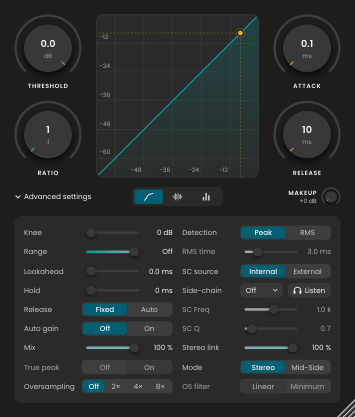
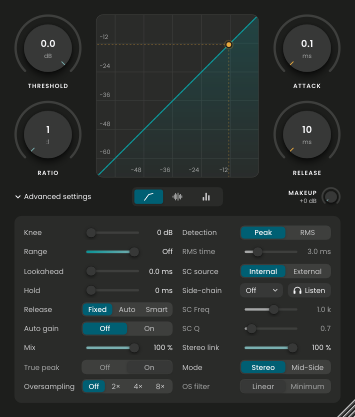
Release Smart : maintien automatique calé sur la période du signal (grave sans distorsion en release rapide), tests et fiche
Claude-Session: https://claude.ai/code/session_01ABYYgU46LdJDcLUx1Gese8

Changed region(s): [[0.2479, 0.717, 0.3718, 0.7794], [0.6197, 0.0624, 0.7127, 0.1247], [0.4028, 0.717, 0.4648, 0.7482]]

diff --git a/Source/CompressorCore.h b/Source/CompressorCore.h
@@ -90,6 +90,7 @@ struct CompParams
     bool   midSide    = false;   // détection et gain sur Mid / Side
     double hold       = 0;       // s
     bool   autoRel    = false;   // release automatique (deux constantes de temps)
+    bool   smartRel   = false;   // 3.0.0, avec autoRel : maintien automatique calé sur la période du signal (grave sans distorsion)
     double rmsWin     = 0.003;   // s
     int    os         = 0;       // suréchantillonnage : 0 = Off, 1 = ×2, 2 = ×4, 3 = ×8
     // 3.0.0
@@ -128,30 +129,47 @@ struct GainStage
 {
     double g = 0, gs = 0, up = 0;
     int hc = 0;
+    // Release « Smart » (3.0.0) : maintien automatique. On mesure l'intervalle entre deux débuts d'attaque successifs
+    // (so : échantillons depuis le dernier début, ia : attaque en cours). S'il est court (moins de adapt, soit 25 ms),
+    // le son est tenu et périodique : le maintien vaut 1,25 fois cette période, la réduction ne redescend plus entre
+    // deux crêtes et le gain ne module plus la forme d'onde (distorsion du grave). Sur une frappe isolée l'intervalle
+    // est long : aucun maintien, le release part aussitôt. adapt = 0 : calcul strictement inchangé.
+    int so = 1 << 28, per = 0;
+    bool ia = false;
+    inline int holdFor (int hold, int adapt)
+    {
+        if (adapt <= 0) return hold;
+        if (! ia) { per = so < adapt ? so : 0; so = 0; ia = true; }
+        return std::max (hold, std::min (adapt, per + per / 4));
+    }
+    inline void tick (int adapt, bool attacking) { if (adapt > 0) { if (! attacking) ia = false; if (so < (1 << 28)) ++so; } }
 
     // Release automatique = deux détecteurs en parallèle (double RC) : le rapide (release ÷ 3) et un lent
     // (constante release × 3, en charge comme en décharge) qui ne se remplit que si la compression dure ;
     // on garde le plus fort des deux.
     // compresseur : attaque exponentielle (formule d'Audio Lab)
-    inline double comp (double gr, double aA, double aR, double aS, int hold, double wAuto)
+    inline double comp (double gr, double aA, double aR, double aS, int hold, double wAuto, int adapt = 0)
     {
-        if (gr > g) { g = aA * g + (1 - aA) * gr; hc = hold; }
+        const bool at = gr > g;
+        if (at) { g = aA * g + (1 - aA) * gr; hc = holdFor (hold, adapt); }
         else if (hc > 0) --hc;
         else g = aR * g + (1 - aR) * gr;
+        tick (adapt, at);
         gs = aS * gs + (1 - aS) * gr;
         return wAuto > 0 ? g + wAuto * std::max (0.0, gs - g) : g;
     }
     // Version suréchantillonnée : même calcul, mais le passage attaque ↔ release est daté ENTRE deux échantillons
     // (la cible est supposée linéaire sur l'intervalle) et le pas est réduit à la fraction restante. Sans cela
     // l'instant de bascule est arrondi à l'échantillon, ce qui module le gain (repliement de la détection crête).
-    inline double compAA (double gr, double aA, double aR, double aS, int hold, double wAuto)
+    inline double compAA (double gr, double aA, double aR, double aS, int hold, double wAuto, int adapt = 0)
     {
+        const bool at = gr > g;
         // intégration par trapèzes : la cible vaut en moyenne (up + gr) / 2 sur l'intervalle
         if (gr > g)
         {
             if (up < g) g += (1 - aA) * 0.5 * (gr - g) * (gr - g) / (gr - up);   // croisement en montant : fraction (gr − g) / (gr − up)
             else        g += (1 - aA) * (0.5 * (up + gr) - g);
-            hc = hold;
+            hc = holdFor (hold, adapt);
         }
         else if (hc > 0) --hc;
         else if (up > g)
@@ -160,6 +178,7 @@ struct GainStage
             g += (1 - aA) * t * 0.5 * (up - g) + (1 - aR) * (1 - t) * 0.5 * (gr - g);
         }
         else g += (1 - aR) * (0.5 * (up + gr) - g);
+        tick (adapt, at);
         up = gr;
         gs = aS * gs + (1 - aS) * gr;
         return wAuto > 0 ? g + wAuto * std::max (0.0, gs - g) : g;
@@ -584,6 +603,7 @@ private:
         aS = std::exp (-1.0 / (std::max (0.001, p.rel * 3) * fh));       // × 3 après une compression prolongée
         rmsCoef = std::exp (-1.0 / (std::max (0.0005, p.rmsWin) * fh));
         holdH = std::max (0, jsRound (p.hold * fh));
+        adaptH = (p.autoRel && p.smartRel) ? jsRound (0.025 * fh) : 0;
         // suréchantillonné : le gain passe par deux pôles à gSmHz (inaudible, retire l'extrême aigu du gain qui se replierait)
         gSm = (factor > 1 && gSmHz > 0) ? 1 - std::exp (-2 * kPi * gSmHz / fh) : 0.0;
         // rythme de base (limiteur)
@@ -721,7 +741,7 @@ private:
         const double grLink = ! useR ? grP : useP ? grP + wR * (gc (toDb (lvlR), thr, s, kn) - grP) : gc (toDb (lvlR), thr, s, kn);
         if (lk >= 1)
         {
-            const double G = aa ? b.st[0].compAA (grLink, aA, aRel, aS, holdH, wA) : b.st[0].comp (grLink, aA, aRel, aS, holdH, wA);
+            const double G = aa ? b.st[0].compAA (grLink, aA, aRel, aS, holdH, wA, adaptH) : b.st[0].comp (grLink, aA, aRel, aS, holdH, wA, adaptH);
             b.st[1] = b.st[0];
             double lin = std::pow (10.0, -G / 20) * mk;
             if (gSm > 0) { b.sm[0][0] += gSm * (lin - b.sm[0][0]); b.sm[0][1] += gSm * (b.sm[0][0] - b.sm[0][1]); lin = b.sm[0][1]; b.sm[1][0] = b.sm[0][0]; b.sm[1][1] = lin; }
@@ -736,7 +756,7 @@ private:
             const double oP = ! useP ? 0.0 : aa ? grA[c] : gc (toDb (std::abs (c == 0 ? d0 : d1)), thr, s, kn);
             const double oR = useR ? gc (toDb (std::sqrt (b.acc[c])), thr, s, kn) : 0.0;
             const double grv = lk * grLink + (1 - lk) * (! useR ? oP : useP ? oP + wR * (oR - oP) : oR);
-            const double G = aa ? b.st[c].compAA (grv, aA, aRel, aS, holdH, wA) : b.st[c].comp (grv, aA, aRel, aS, holdH, wA);
+            const double G = aa ? b.st[c].compAA (grv, aA, aRel, aS, holdH, wA, adaptH) : b.st[c].comp (grv, aA, aRel, aS, holdH, wA, adaptH);
             double lin = std::pow (10.0, -G / 20) * mk;
             if (gSm > 0) { b.sm[c][0] += gSm * (lin - b.sm[c][0]); b.sm[c][1] += gSm * (b.sm[c][0] - b.sm[c][1]); lin = b.sm[c][1]; }
             b.gh[c][(size_t) w] = lin;
@@ -1006,6 +1026,7 @@ private:
     // coefficients
     double aA = 0, aR = 0, aRfast = 0, aS = 0, rmsCoef = 0, gSm = 0;
     AdaaGR adaa;
+    int adaptH = 0;
     bool adaaDirty = false;
 public:
     double gSmHz = 0;   // adoucissement du gain suréchantillonné : essayé, sans effet mesurable sur le repliement, laissé à 0

diff --git a/tests/quality_test.cpp b/tests/quality_test.cpp
@@ -627,6 +627,7 @@ int main()
             { "RMS time 50 → 5 ms", [] (CompParams& q) { q.rmsWin = 0.005; }, [] (CompParams& q) { q.rmsWin = 0.05; }, false },
             { "Hold 0 → 100 ms", [] (CompParams& q) { q.hold = 0.1; }, [] (CompParams& q) { q.hold = 0; }, false },
             { "Release Fixed → Auto", [] (CompParams& q) { q.autoRel = true; }, [] (CompParams& q) { q.autoRel = false; }, false },
+            { "Release Fixed → Smart", [] (CompParams& q) { q.autoRel = true; q.smartRel = true; }, [] (CompParams& q) { q.autoRel = false; q.smartRel = false; }, false },
             { "Range 60 → 3 dB", [] (CompParams& q) { q.range = 3; }, [] (CompParams& q) { q.range = 60; }, false },
             { "Auto gain Off → On", [] (CompParams& q) { q.autoGain = true; }, [] (CompParams& q) { q.autoGain = false; }, false },
             { "Side-chain Off → HPF 500 Hz", [] (CompParams& q) { q.scType = Biquad::HPF; q.scF = 500; }, [] (CompParams& q) { q.scType = Biquad::Off; }, false },
@@ -727,21 +728,36 @@ int main()
                 check (o.lat == 0 && num / den < 1e-10 && ov.minPhaseDelay() < 8, m);
             }
         }
-        {   // grave : distorsion d'un sinus 50 Hz compressé de 12 dB, release rapide (mesure d'information et garde-fou)
-            auto x = sine (fs, 50, -6, 2.0);
-            auto thd = [&] (CompParams p) {
+        {   // grave en release rapide : distorsion d'un sinus compressé de 12 dB, détection Peak, release 30 ms
+            auto thd = [&] (double f0, CompParams p) {
+                auto x = sine (fs, f0, -6, 2.0);
                 auto o = run (fs, x, x, p);
-                // fondamental par corrélation, le reste = distorsion
-                const size_t a0 = 48000, n = 48000; double c = 0, s = 0, e = 0;
-                for (size_t i = 0; i < n; ++i) { const double w = 2 * PI * 50 * (double) i / fs; c += o.L[a0 + i] * std::cos (w); s += o.L[a0 + i] * std::sin (w); e += (double) o.L[a0 + i] * o.L[a0 + i]; }
+                const size_t a0 = 48000, n = 48000; double c = 0, s = 0, e = 0;   // fondamental par corrélation, le reste = distorsion
+                for (size_t i = 0; i < n; ++i) { const double w = 2 * PI * f0 * (double) i / fs; c += o.L[a0 + i] * std::cos (w); s += o.L[a0 + i] * std::sin (w); e += (double) o.L[a0 + i] * o.L[a0 + i]; }
                 const double f2 = 2 * (c * c + s * s) / n;
                 return 100 * std::sqrt (std::max (0.0, e - f2) / f2); };
             CompParams p; p.thr = -24; p.ratio = 3; p.atk = 0.005; p.rel = 0.03;
-            const double tFix = thd (p);
-            CompParams q = p; q.hold = 0.02; const double tHold = thd (q);
-            CompParams r = p; r.rms = true; r.rmsWin = 0.05; const double tRms = thd (r);
-            std::snprintf (m, sizeof m, "sinus 50 Hz, release 30 ms : distorsion %.2f %% (Peak), %.2f %% avec Hold 20 ms, %.3f %% en RMS 50 ms", tFix, tHold, tRms);
-            check (tHold < tFix && tRms < 0.5, m);
+            CompParams au = p; au.autoRel = true;
+            CompParams sm = au; sm.smartRel = true;
+            CompParams s8 = sm; s8.os = 3;
+            for (double f0 : { 40.0, 50.0, 80.0, 150.0 })
+            {
+                const double tF = thd (f0, p), tA = thd (f0, au), tS = thd (f0, sm), tS8 = thd (f0, s8);
+                std::snprintf (m, sizeof m, "sinus %.0f Hz, release 30 ms : distorsion %.2f %% (Fixed), %.2f %% (Auto), %.3f %% (Smart), %.3f %% (Smart, 8×)", f0, tF, tA, tS, tS8);
+                check (tS < 0.05 && tS8 < 0.05 && tS < tF / 20, m);
+            }
+        }
+        {   // Smart ne retarde pas le release d'une frappe isolée : même retour au gain unité qu'en Auto
+            std::vector<float> x ((size_t) (fs * 1.0), 0.0f);
+            for (int i = 0; i < 2400; ++i) x[(size_t) (4800 + i)] = (float) (0.9 * std::sin (2 * PI * 3000.0 * i / fs) * std::exp (-i / 600.0));   // frappe de 50 ms
+            for (size_t i = 0; i < x.size(); ++i) x[i] += (float) (0.01 * std::sin (2 * PI * 700.0 * (double) i / fs));                        // son témoin très faible
+            CompParams au; au.thr = -30; au.ratio = 6; au.atk = 0.001; au.rel = 0.1; au.autoRel = true;
+            CompParams sm = au; sm.smartRel = true;
+            auto a = run (fs, x, x, au), b = run (fs, x, x, sm);
+            double d = 0, ref = 0;
+            for (size_t i = 7200; i < x.size(); ++i) { d = std::max (d, (double) std::abs (a.L[i] - b.L[i])); ref = std::max (ref, (double) std::abs (a.L[i])); }
+            std::snprintf (m, sizeof m, "frappe isolée : écart Smart / Auto pendant le release %.1f dB sous le signal", -20 * std::log10 (d / ref + 1e-12));
+            check (d / ref < 0.05, m);
         }
     }
 

diff --git a/Source/Params.h b/Source/Params.h
@@ -26,7 +26,7 @@ inline constexpr const char* scSource  = "scSource";     // Internal / External
 inline constexpr const char* link      = "stereoLink";   // 0 … 100 %
 inline constexpr const char* stMode    = "stereoMode";   // Stereo / Mid-Side
 inline constexpr const char* hold      = "hold";         // 0 … 500 ms
-inline constexpr const char* autoRel   = "autoRelease";  // Off / On
+inline constexpr const char* autoRel   = "autoRelease";  // Off / On / Smart (Smart ajouté en 3.0.0, en fin de liste)
 inline constexpr const char* rmsWin    = "rmsWindow";    // 1 … 300 ms
 inline constexpr const char* oversamp  = "oversampling"; // Off / 2× / 4× / 8× (8× ajouté en 3.0.0, en fin de liste)
 // 3.0.0
@@ -110,7 +110,7 @@ inline juce::AudioProcessorValueTreeState::ParameterLayout createLayout()
     fl (link, "Stereo Link", linRange (0, 100, 1), 100, "%", [] (float v, int) { return String (roundToInt (v)) + " %"; }, 2);
     l.add (std::make_unique<AudioParameterChoice> (ParameterID { stMode, 2 }, "Stereo Mode", StringArray { "Stereo", "Mid-Side" }, 0));
     fl (hold, "Hold", powRange (0, 500, 1, 2), 0, "ms", [] (float v, int) { return String (roundToInt (v)) + " ms"; }, 2);
-    l.add (std::make_unique<AudioParameterChoice> (ParameterID { autoRel, 2 }, "Auto Release", StringArray { "Off", "On" }, 0));
+    l.add (std::make_unique<AudioParameterChoice> (ParameterID { autoRel, 2 }, "Auto Release", StringArray { "Off", "On", "Smart" }, 0));
     fl (rmsWin, "RMS Window", logRange (1, 300, 0.1f), 3, "ms", [] (float v, int) { return fmtMs (v); }, 2);
     // suréchantillonnage : change la latence, donc non automatisable (réglé une fois, hors lecture de préférence)
     l.add (std::make_unique<AudioParameterChoice> (ParameterID { oversamp, 2 }, "Oversampling", StringArray { "Off", "2" + times, "4" + times, "8" + times }, 0,

diff --git a/Source/PluginEditor.cpp b/Source/PluginEditor.cpp
@@ -16,7 +16,7 @@ static const char* helpLook = "The detector sees the signal in advance: the atta
 // 2.0.0
 static const char* helpRms  = "RMS window: how long the detector averages the level (RMS detection only). Short = closer to the peaks, long = follows the loudness. Default 3 ms.";
 static const char* helpHold = "Hold: keeps the gain reduction in place for this time before the release starts. Avoids distortion on bass notes and a fluttering gain.";
-static const char* helpRelA = "Auto release adapts to the music: after a short peak the gain comes back 3 times faster than the Release setting, after a long compression 3 times slower. Less pumping, more punch.";
+static const char* helpRelA = "Auto release adapts to the music: after a short peak the gain comes back 3 times faster than the Release setting, after a long compression 3 times slower. Less pumping, more punch. Smart: Auto, plus a hold that follows the pitch of sustained notes, so a fast release no longer distorts the bass; single hits release as in Auto.";
 static const char* helpTp   = "True peak (\xe2\x88\x9e:1 only): the limiter also catches the peaks between the samples, so the output stays under the ceiling after conversion. Needs 32 samples of lookahead (1 ms at 44.1 and 48 kHz) and adds 64 samples of latency.";
 static const char* helpScS  = "Side-chain source. Internal: the compressor listens to its own input. External: it listens to the side-chain input set in your DAW (ducking). With no side-chain connected, it stays internal.";
 static const char* helpLink = "Stereo link: 100 % = both channels get the same gain reduction (stable stereo image). 0 % = each channel is compressed on its own. 50 % = the quieter channel gets half the reduction.";

diff --git a/tests/processor_test.cpp b/tests/processor_test.cpp
@@ -310,6 +310,12 @@ int main()
         check (juce::approximatelyEqual (b.getParam (P::range), 60.0f) && b.getParam (P::autoGain) < 0.5f && b.getParam (P::osFilter) < 0.5f
                && juce::roundToInt (b.getParam (P::oversamp)) == 2 && juce::approximatelyEqual (b.getParam (P::thr), -18.0f),
                "session 2.0.0 rouverte : Range Off, Auto gain Off, filtre Linear ; son suréchantillonnage 4× reste 4×");
+        {   // une session 2.0.0 en release Auto (indice 1) reste en Auto ; Smart (indice 2) se rappelle
+            AudioLabCompProcessor o; setP (o, P::autoRel, 1); juce::MemoryBlock m1; o.getStateInformation (m1);
+            AudioLabCompProcessor r; setP (r, P::autoRel, 2); juce::MemoryBlock m2; r.getStateInformation (m2);
+            r.setStateInformation (m1.getData(), (int) m1.getSize()); o.setStateInformation (m2.getData(), (int) m2.getSize());
+            check (juce::roundToInt (r.getParam (P::autoRel)) == 1 && juce::roundToInt (o.getParam (P::autoRel)) == 2, "Release : une session en Auto reste en Auto, Smart est rappelé");
+        }
         AudioLabCompProcessor c; setP (c, P::range, 12); setP (c, P::autoGain, 1); setP (c, P::osFilter, 1); setP (c, P::oversamp, 3);
         juce::MemoryBlock mb2; c.getStateInformation (mb2);
         AudioLabCompProcessor d; d.setStateInformation (mb2.getData(), (int) mb2.getSize());

diff --git a/Source/PluginEditor.h b/Source/PluginEditor.h
@@ -53,7 +53,7 @@ private:
     std::unique_ptr<audiolab::SliderRow> rowRange, rowMix;
     audiolab::SegButtons agSeg { theme, { "Off", "On" } };
     audiolab::SegButtons osfSeg { theme, { "Linear", "Minimum" } };
-    audiolab::SegButtons relSeg { theme, { "Fixed", "Auto" } };
+    audiolab::SegButtons relSeg { theme, { "Fixed", "Auto", "Smart" } };
     audiolab::SegButtons tpSeg { theme, { "Off", "On" } };
     audiolab::SegButtons scSrcSeg { theme, { "Internal", "External" } };
     audiolab::SegButtons modeSeg { theme, { "Stereo", "Mid-Side" } };

diff --git a/Source/PluginProcessor.cpp b/Source/PluginProcessor.cpp
@@ -60,6 +60,7 @@ CompParams AudioLabCompProcessor::currentParams() const
     p.midSide = getParam (params::stMode) > 0.5f;
     p.hold = getParam (params::hold) / 1000.0;
     p.autoRel = getParam (params::autoRel) > 0.5f;
+    p.smartRel = getParam (params::autoRel) > 1.5f;   // 3.0.0 : Auto + maintien calé sur la période du signal
     p.rmsWin = getParam (params::rmsWin) / 1000.0;
     p.os = juce::roundToInt (getParam (params::oversamp));
     p.osMin = getParam (params::osFilter) > 0.5f;

diff --git a/docs/06_GUI_Plugin_Compresseur.md b/docs/06_GUI_Plugin_Compresseur.md
@@ -218,6 +218,7 @@ Captures : `docs/captures_3.0.0/` (60, 100 et 200 %, replié et déplié).
 | OS filter | `osFilter` | Linear / Minimum | Linear | filtres du suréchantillonnage ; Minimum = latence nulle annoncée |
 | Oversampling | `oversampling` | Off / 2× / 4× / 8× | Off | 8× ajouté en fin de liste : les sessions 2.0.0 gardent leur réglage |
 | Mix | `mix` | 0 à 100 % | 100 % | réglage existant, désormais affiché dans le panneau |
+| Release | `autoRelease` | Fixed / Auto / Smart | Fixed | Smart ajouté en fin de liste : Auto, plus un maintien automatique calé sur la période du signal |
 
 ### Moteur
 
@@ -227,7 +228,7 @@ Captures : `docs/captures_3.0.0/` (60, 100 et 200 %, replié et déplié).
 - Limiteur ∞ : second étage qui mesure la crête vraie de la sortie du premier (interpolateur de 96 points) et la retouche avec 64 échantillons d'avance. Crête vraie active dès 32 échantillons de lookahead.
 - Latences : suréchantillonnage linéaire 85 / 93 / 96 échantillons (2× / 4× / 8×) ; phase minimale 0 annoncé (retard réel 4,5 à 6,5 échantillons) ; limiteur crête vraie + 64 ; AAX : latence fixe de 10 ms + 64 échantillons.
 
-### Mesures (banc `tests/quality_test.cpp`, 144 vérifications)
+### Mesures (banc `tests/quality_test.cpp`, 149 vérifications)
 
 | Mesure | 2.0.0 | 3.0.0 |
 |---|---|---|
@@ -244,6 +245,7 @@ Captures : `docs/captures_3.0.0/` (60, 100 et 200 %, replié et déplié).
 ### Non fait, non vérifié
 
 - Aucune écoute. Aucune mesure de Pro-C, UAD ou Waves.
-- Sinus 50 Hz, release 30 ms en Peak : 2,5 % de distorsion, comme en 2.0.0 (0,06 % en RMS 50 ms, nulle avec Hold 20 ms).
-- Release automatique affiné et caractères de compression : non commencés.
+- Sinus 50 Hz, release 30 ms en Peak : 2,5 % de distorsion en Fixed et 4,9 % en Auto, comme en 2.0.0 ; 0,004 % en Smart (de 40 à 150 Hz). Les réglages par défaut (Fixed) ne changent pas de son.
+- Release Smart : mesuré sur des sinus et sur une frappe isolée (même release qu'en Auto, écart 48 dB sous le signal), pas sur de la musique réelle.
+- Caractères de compression : non commencés.
 - Mac (VST3, AU, AAX), Windows, Logic, Pro Tools : non testés pour la 3.0.0 ; pluginval niveau 10 passé en VST3 sous Linux uniquement.
